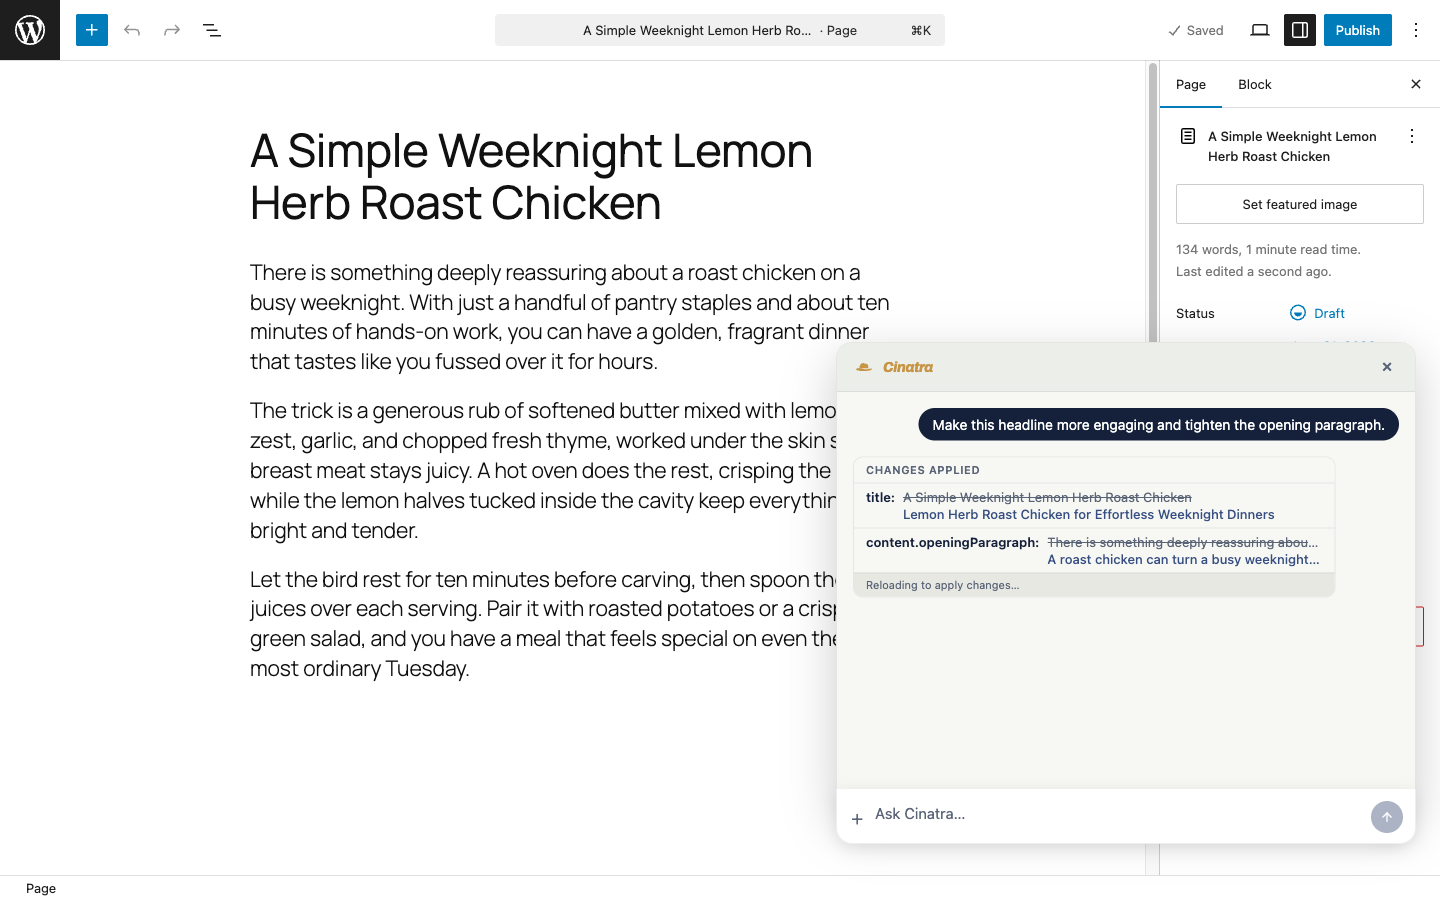
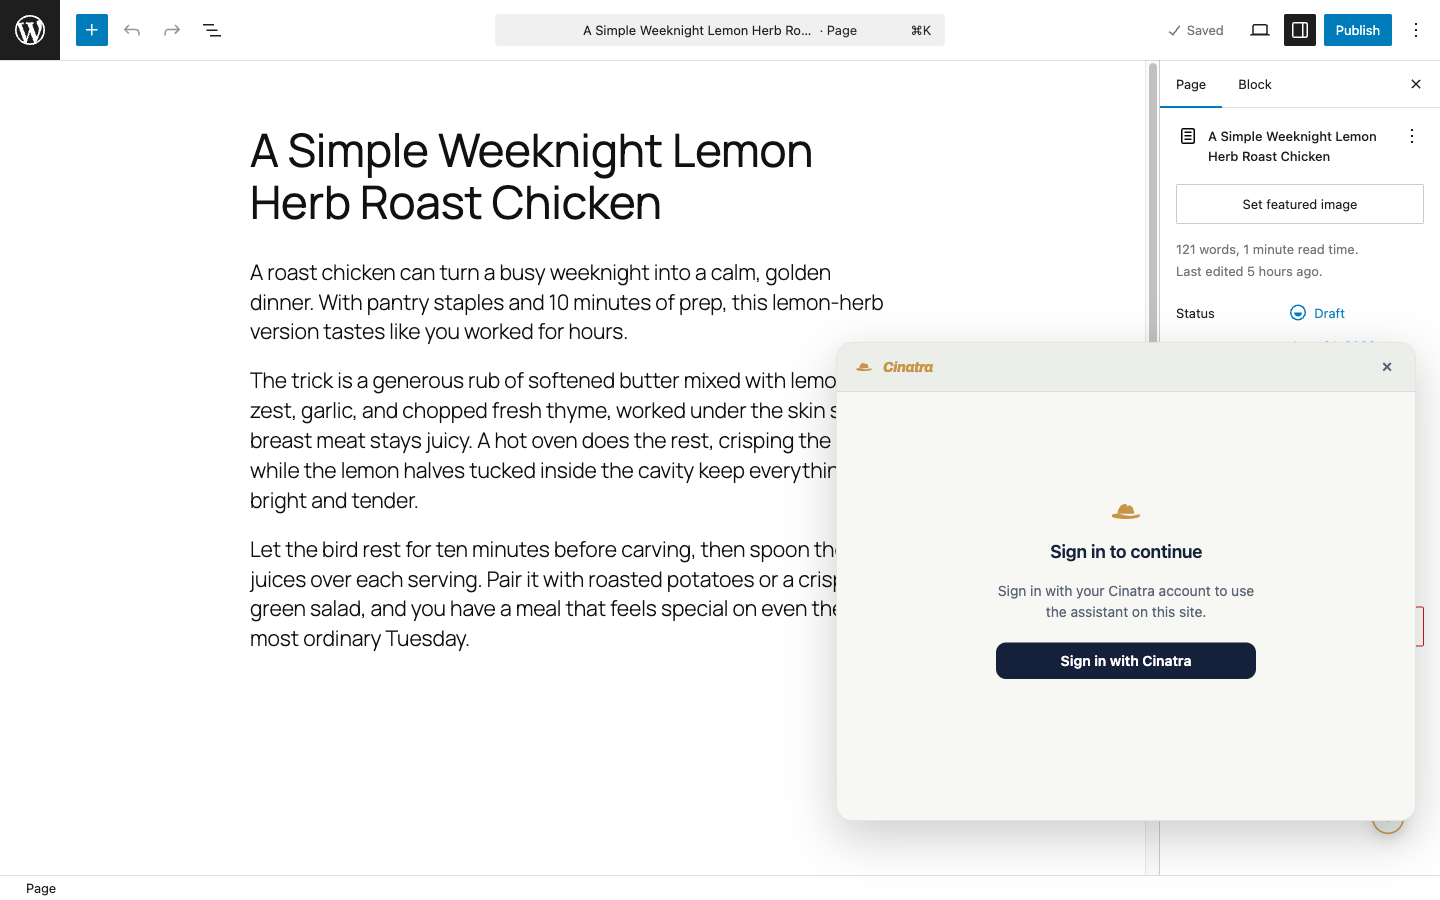
wp.org: 3 real screenshots (assistant in action, sign-in, connect) + matching captions
Final directory listing for sign-off:
- screenshot-1 = the Cinatra assistant in action over the post editor
- screenshot-2 = the per-user Sign in with Cinatra account window
- screenshot-3 = the Settings -> Cinatra connect page (Currently connected)
All three are genuine live wp-admin captures. Updated readme.txt
== Screenshots == captions and .wordpress-org/README.md + manifest.json to
the new order; corrected the stale icon description (mustard fedora on white,
not navy) to match the actual brand-correct asset.

Assisted-by: claude (claude-opus-4-8)

diff --git a/.wordpress-org/README.md b/.wordpress-org/README.md
@@ -14,7 +14,7 @@ established brand rules — never an ad-hoc recolour or layout.
 
 | File | Dimensions | Treatment (per brand spec) |
 | --- | --- | --- |
-| `icon-128x128.png` | 128×128 | App-icon recipe: mustard fedora on a navy rounded square (the sanctioned icon-ground exception). Fedora kept clear of corners so it survives the circular mask WordPress applies. |
+| `icon-128x128.png` | 128×128 | Brand favicon treatment: mustard fedora on a clean white/paper ground with a hairline border ("Mustard on paper or surface ... never on the navy ground"). Fedora kept clear of corners so it survives the circular mask WordPress applies. |
 | `icon-256x256.png` | 256×256 | Same as the 128 icon, rendered at 2×. |
 | `banner-772x250.png` | 772×250 | Light banner: paper (cream) ground + mustard horizontal lockup + tagline "The open source AI workspace" in slate. "Mustard on paper" is the Primary colourway. |
 | `banner-1544x500.png` | 1544×500 | Same as the 772 banner, rendered at 2× (retina). |
@@ -37,17 +37,19 @@ brand-rule violation fails the build instead of shipping.
 
 ## Screenshots
 
-`screenshot-1.png` and `screenshot-2.png` are **real captures** of the plugin
-running in a live wp-admin (RGB PNG, no alpha border). Their captions live in
-`readme.txt` under `== Screenshots ==`; the ordinal of each file matches its
-caption order there.
+`screenshot-1.png`, `screenshot-2.png`, and `screenshot-3.png` are **real
+captures** of the plugin running in a live wp-admin (RGB PNG, no alpha border).
+Their captions live in `readme.txt` under `== Screenshots ==`; the ordinal of
+each file matches its caption order there.
 
-1. **`screenshot-1.png`** — Settings → Cinatra page: the instance-URL field and
-   the one-click "Connect with Cinatra" button, with the advanced/manual fields
-   below.
-2. **`screenshot-2.png`** — the assistant in action: the chat panel open over
+1. **`screenshot-1.png`** — the assistant in action: the chat panel open over
    the WordPress post editor, asked to make a headline more engaging and tighten
    the opening paragraph.
+2. **`screenshot-2.png`** — account sign-in: the "Sign in with Cinatra" window
+   the assistant shows so each person works with their own permissions.
+3. **`screenshot-3.png`** — Settings → Cinatra page: the instance-URL field and
+   the one-click "Connect with Cinatra" button, with the advanced/manual fields
+   below.
 
 Replacing/adding screenshots: file names must be exactly `screenshot-1.png`,
 `screenshot-2.png`, etc., the ordinal must match the caption order in